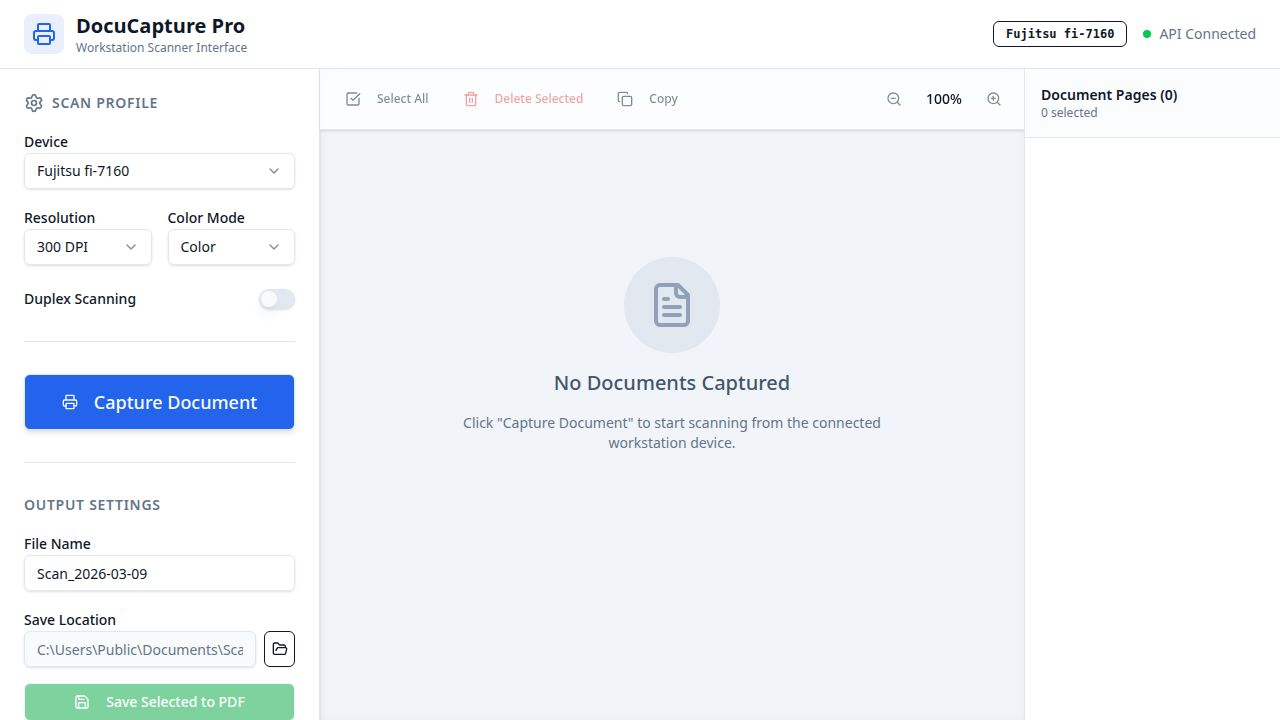
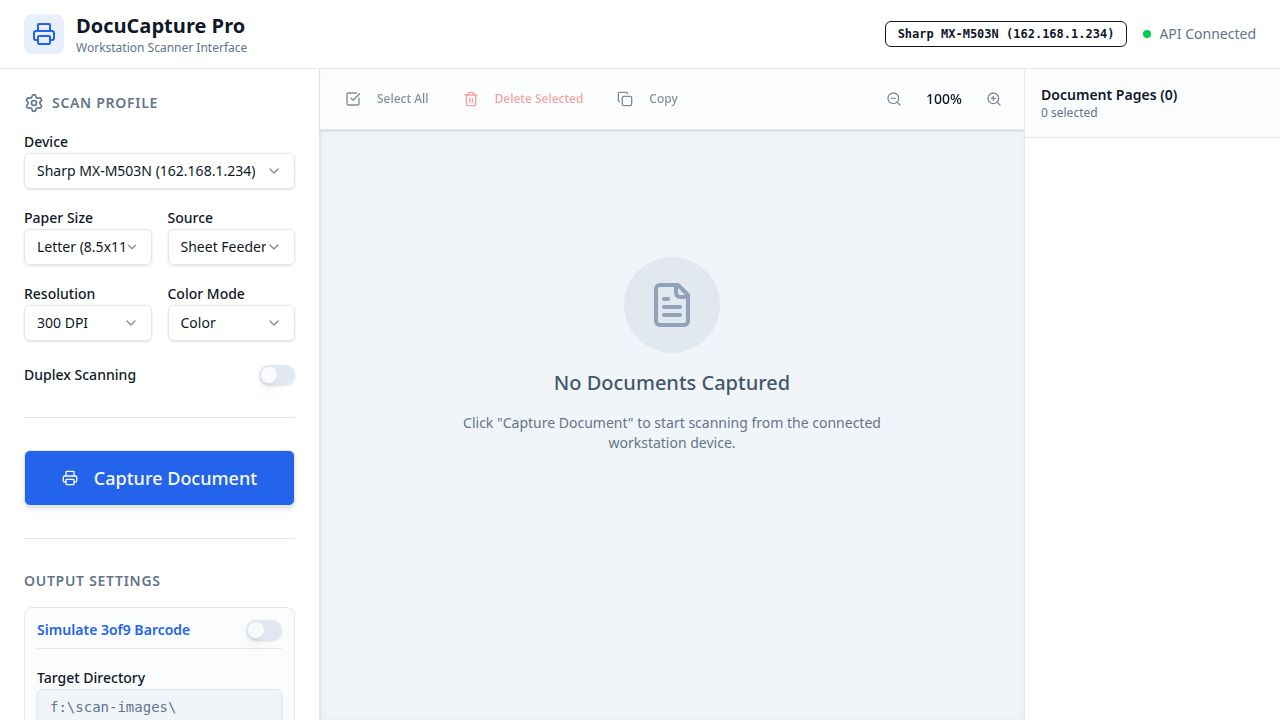
Update scanner settings and file naming to match user's hardware
Update scanner selection to Sharp MX-M503N, configure paper size and source, and implement dynamic file naming based on barcode detection or sequential numbering.

Replit-Commit-Author: Agent
Replit-Commit-Session-Id: 64537bd2-dead-4ce6-9637-284c1df7f91c
Replit-Commit-Checkpoint-Type: full_checkpoint
Replit-Commit-Event-Id: 18f7d92c-7b49-463e-9676-d05fac7f378e
Replit-Commit-Screenshot-Url: https://storage.googleapis.com/screenshot-production-us-central1/095a86ce-4a32-4f3b-9c2b-de2a3d79730f/64537bd2-dead-4ce6-9637-284c1df7f91c/t5iX68u
Replit-Helium-Checkpoint-Created: true

diff --git a/client/src/pages/CaptureStation.tsx b/client/src/pages/CaptureStation.tsx
@@ -26,6 +26,7 @@ import { Progress } from "@/components/ui/progress";
 
 // Mock data for initial states
 const MOCK_SCANNERS = [
+  "Sharp MX-M503N (162.168.1.234)",
   "Fujitsu fi-7160",
   "Epson ScanSnap iX1600",
   "HP WorkForce DS-530II"
@@ -49,7 +50,16 @@ export default function CaptureStation() {
   const [dpi, setDpi] = useState("300");
   const [colorMode, setColorMode] = useState("color");
   const [duplex, setDuplex] = useState(false);
-  const [fileName, setFileName] = useState("Scan_" + new Date().toISOString().split('T')[0]);
+  const [paperSize, setPaperSize] = useState("letter");
+  const [source, setSource] = useState("feeder");
+  
+  // File Naming state
+  const [lastSeqNumber, setLastSeqNumber] = useState(1042);
+  const [barcodeDetected, setBarcodeDetected] = useState(false);
+  const [detectedBarcode, setDetectedBarcode] = useState("B7492");
+  
+  // File Naming string
+  const currentFileName = barcodeDetected ? detectedBarcode : `SCAN_${lastSeqNumber.toString().padStart(4, '0')}`;
 
   // Tree.bin bucket state
   const mockBuckets = ["Bucket_001", "Bucket_002", "Bucket_042", "Bucket_105", "Bucket_999"];
@@ -126,16 +136,21 @@ export default function CaptureStation() {
 
     toast({
       title: "Saving PDF...",
-      description: `Saving ${selectedCount} pages to undisclosed directory as ${selectedBucket}.pdf`,
+      description: `Saving ${selectedCount} pages to f:\\scan-images\\${currentFileName}.pdf`,
     });
     
     // In a real app, this would trigger the actual save process
     setTimeout(() => {
       toast({
         title: "Success",
-        description: `File saved successfully to secure target.`,
+        description: `File saved successfully to local drive.`,
         variant: "default"
       });
+      
+      // Increment sequential number if not using barcode
+      if (!barcodeDetected) {
+        setLastSeqNumber(prev => prev + 1);
+      }
     }, 1500);
   };
 
@@ -194,6 +209,34 @@ export default function CaptureStation() {
                         ))}
                       </SelectContent>
                     </Select>
+                  </div>
+
+                  <div className="grid grid-cols-2 gap-4">
+                    <div className="space-y-2">
+                      <Label htmlFor="paper-size">Paper Size</Label>
+                      <Select value={paperSize} onValueChange={setPaperSize}>
+                        <SelectTrigger id="paper-size">
+                          <SelectValue placeholder="Size" />
+                        </SelectTrigger>
+                        <SelectContent>
+                          <SelectItem value="letter">Letter (8.5x11")</SelectItem>
+                          <SelectItem value="legal">Legal (8.5x14")</SelectItem>
+                          <SelectItem value="a4">A4</SelectItem>
+                        </SelectContent>
+                      </Select>
+                    </div>
+                    <div className="space-y-2">
+                      <Label htmlFor="source">Source</Label>
+                      <Select value={source} onValueChange={setSource}>
+                        <SelectTrigger id="source">
+                          <SelectValue placeholder="Source" />
+                        </SelectTrigger>
+                        <SelectContent>
+                          <SelectItem value="feeder">Sheet Feeder</SelectItem>
+                          <SelectItem value="flatbed">Flatbed</SelectItem>
+                        </SelectContent>
+                      </Select>
+                    </div>
                   </div>
 
                   <div className="grid grid-cols-2 gap-4">
@@ -271,38 +314,32 @@ export default function CaptureStation() {
 
               {/* Export Settings */}
               <div className="space-y-4">
-                <div className="flex items-center justify-between">
-                  <h2 className="text-sm font-semibold uppercase tracking-wider text-muted-foreground">Target Destination</h2>
-                  <Button variant="ghost" size="sm" className="h-6 text-xs px-2" onClick={() => {
-                    setIsReadingTree(true);
-                    setTimeout(() => setIsReadingTree(false), 800);
-                  }}>
-                    <RefreshCcw className={`w-3 h-3 mr-1 ${isReadingTree ? 'animate-spin' : ''}`} />
-                    Read tree.bin
-                  </Button>
-                </div>
+                <h2 className="text-sm font-semibold uppercase tracking-wider text-muted-foreground">Output Settings</h2>
                 
                 <div className="space-y-4 bg-muted/30 p-3 rounded-lg border border-border">
-                  <div className="space-y-2">
-                    <Label htmlFor="bucket">Select Bucket (tree.bin)</Label>
-                    <Select value={selectedBucket} onValueChange={setSelectedBucket}>
-                      <SelectTrigger id="bucket" className="bg-white">
-                        <SelectValue placeholder="Select bucket" />
-                      </SelectTrigger>
-                      <SelectContent>
-                        {mockBuckets.map(bucket => (
-                          <SelectItem key={bucket} value={bucket}>{bucket}</SelectItem>
-                        ))}
-                      </SelectContent>
-                    </Select>
+                  <div className="flex items-center justify-between pb-2 border-b border-border">
+                    <Label htmlFor="barcode-detect" className="cursor-pointer font-semibold text-primary">Simulate 3of9 Barcode</Label>
+                    <Switch id="barcode-detect" checked={barcodeDetected} onCheckedChange={setBarcodeDetected} />
                   </div>
                   
+                  {barcodeDetected && (
+                     <div className="space-y-2">
+                       <Label htmlFor="detected-barcode" className="text-xs">Detected Barcode Value</Label>
+                       <Input 
+                         id="detected-barcode" 
+                         value={detectedBarcode} 
+                         onChange={(e) => setDetectedBarcode(e.target.value)}
+                         className="h-8 font-mono text-sm"
+                       />
+                     </div>
+                  )}
+
                   <div className="space-y-2">
                     <Label htmlFor="location">Target Directory</Label>
                     <div className="flex space-x-2">
                       <Input 
                         id="location" 
-                        value="[ENCRYPTED] \ *** \ Secure_Storage" 
+                        value="f:\scan-images\" 
                         readOnly 
                         className="bg-slate-100 text-slate-500 font-mono text-xs"
                       />
@@ -311,7 +348,7 @@ export default function CaptureStation() {
                   
                   <div className="pt-2 text-xs text-muted-foreground flex items-center space-x-1">
                     <FileText className="w-3 h-3" />
-                    <span>Output: {selectedBucket}.pdf</span>
+                    <span>Output File: <strong>{currentFileName}.pdf</strong></span>
                   </div>
 
                   <Button 
@@ -322,7 +359,7 @@ export default function CaptureStation() {
                     data-testid="button-save-pdf"
                   >
                     <Save className="w-4 h-4 mr-2" />
-                    Export to Shared Disk
+                    Save to Local Drive
                   </Button>
                 </div>
               </div>
